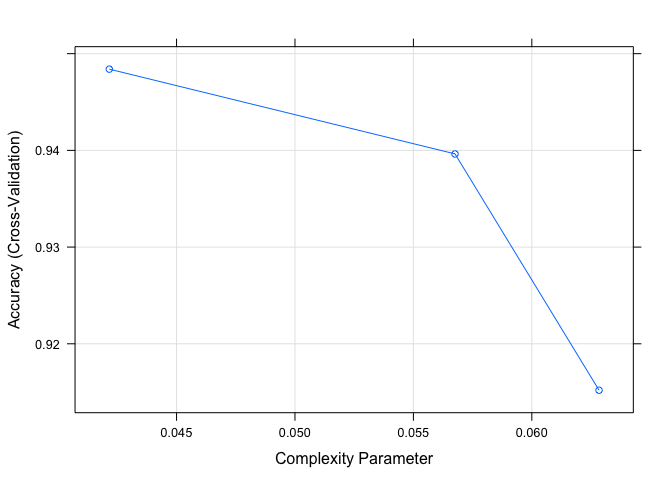
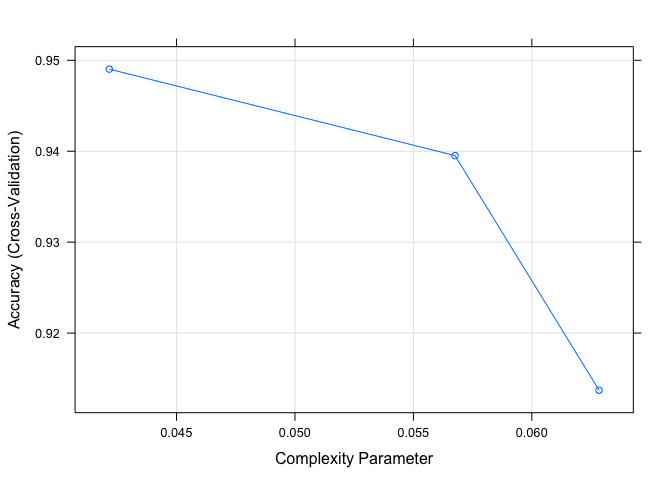
new commit

diff --git a/yelp.md b/yelp.md
@@ -75,13 +75,13 @@ clasmodel
 ## 
 ## No pre-processing
 ## Resampling: Cross-Validated (10 fold) 
-## Summary of sample sizes: 15802, 15802, 15803, 15802, 15802, 15803, ... 
+## Summary of sample sizes: 15802, 15802, 15802, 15802, 15802, 15802, ... 
 ## Resampling results across tuning parameters:
 ## 
 ##   cp          Accuracy   Kappa    
-##   0.04216216  0.9483990  0.7040519
-##   0.05675676  0.9396291  0.6278712
-##   0.06283784  0.9151978  0.2915288
+##   0.04216216  0.9490267  0.7087346
+##   0.05675676  0.9395150  0.6234661
+##   0.06283784  0.9137143  0.2790686
 ## 
 ## Accuracy was used to select the optimal model using the largest value.
 ## The final value used for the model was cp = 0.04216216.
